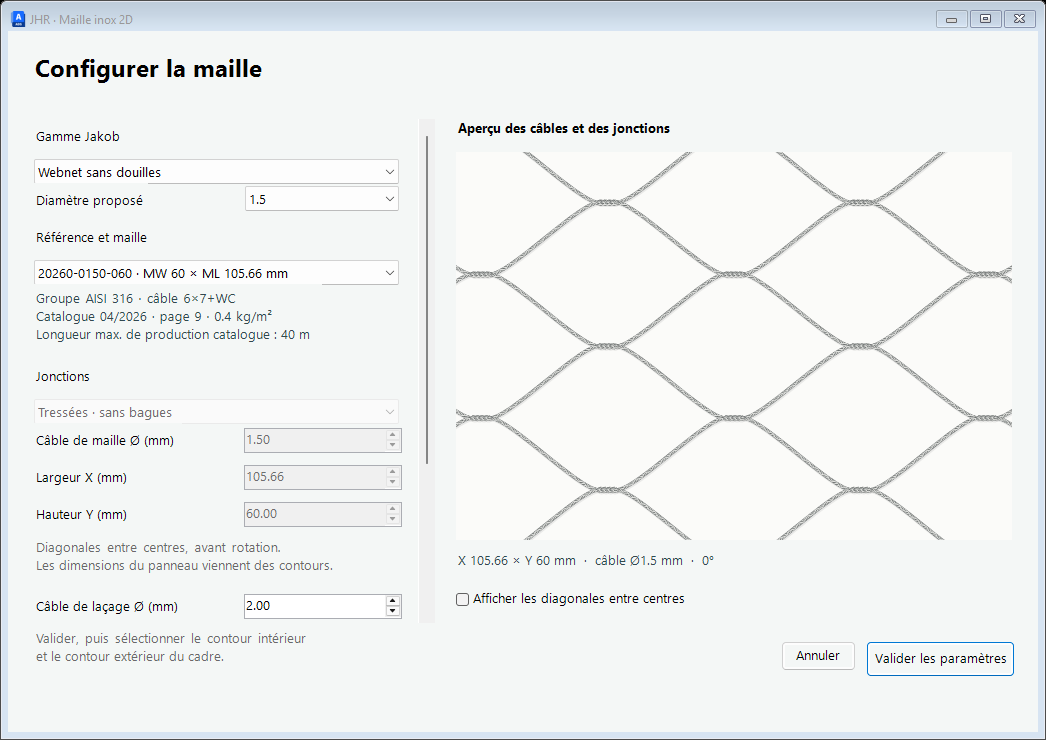
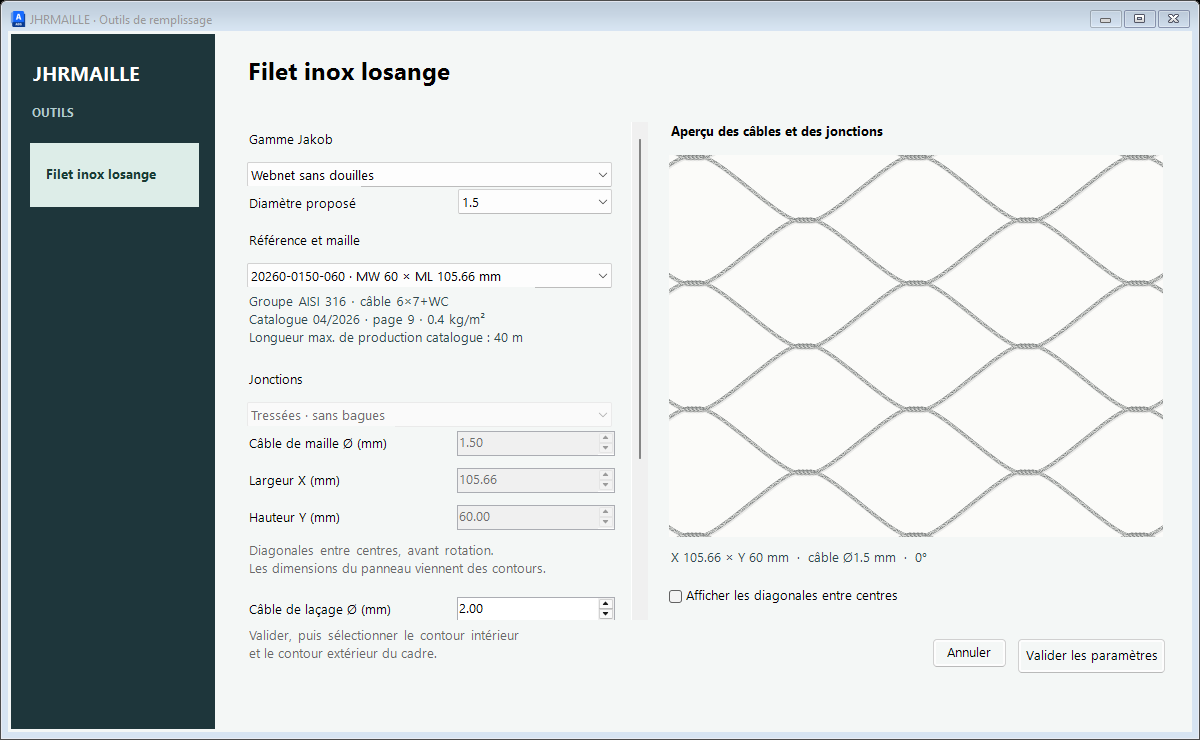
Ajoute navigation des outils JHRMAILLE et Filet inox losange

diff --git a/JHRMaille2D/Interface/MeshForm.cs b/JHRMaille2D/Interface/MeshForm.cs
@@ -3,6 +3,7 @@ public sealed class MeshForm : Form
 {
     public MeshSettings Settings {get;private set;}
     readonly MeshSettings initial;
+    readonly ToolNavigation navigation=new(){Dock=DockStyle.Fill};
     readonly MeshPreview preview=new(){Dock=DockStyle.Fill};
     readonly ComboBox mode=new(){DropDownStyle=ComboBoxStyle.DropDownList,Dock=DockStyle.Fill};
     readonly Dictionary<string,NumericUpDown> numbers=new();
@@ -19,14 +20,18 @@ public sealed class MeshForm : Form
     bool setting;
     public MeshForm(MeshSettings s)
     {
-        initial=s;Settings=s;Text="JHR · Maille inox 2D";Font=new Font("Segoe UI",10);
-        AutoScaleMode=AutoScaleMode.Dpi;ClientSize=new(1160,860);MinimumSize=new(1040,740);
+        initial=s;Settings=s;Text="JHRMAILLE · Outils de remplissage";Font=new Font("Segoe UI",10);
+        AutoScaleMode=AutoScaleMode.Dpi;ClientSize=new(1370,860);MinimumSize=new(1200,740);
         StartPosition=FormStartPosition.CenterParent;BackColor=Color.FromArgb(244,247,246);
         MinimizeBox=false;MaximizeBox=true;ShowInTaskbar=false;
+        var shell=new TableLayoutPanel{Dock=DockStyle.Fill,ColumnCount=2,RowCount=1,Margin=Padding.Empty};
+        shell.ColumnStyles.Add(new(SizeType.Absolute,210));shell.ColumnStyles.Add(new(SizeType.Percent,100));
+        shell.RowStyles.Add(new(SizeType.Percent,100));Controls.Add(shell);
+        navigation.AddTool("filet-inox-losange","Filet inox losange");shell.Controls.Add(navigation,0,0);
         var layout=new TableLayoutPanel{Dock=DockStyle.Fill,Padding=new(20),ColumnCount=2,RowCount=3};
         layout.ColumnStyles.Add(new(SizeType.Absolute,410));layout.ColumnStyles.Add(new(SizeType.Percent,100));
-        layout.RowStyles.Add(new(SizeType.Absolute,65));layout.RowStyles.Add(new(SizeType.Percent,100));layout.RowStyles.Add(new(SizeType.Absolute,86));Controls.Add(layout);
-        var title=new Label{Text="Configurer la maille",Font=new Font(Font.FontFamily,18,FontStyle.Bold),AutoSize=true};
+        layout.RowStyles.Add(new(SizeType.Absolute,65));layout.RowStyles.Add(new(SizeType.Percent,100));layout.RowStyles.Add(new(SizeType.Absolute,86));shell.Controls.Add(layout,1,0);
+        var title=new Label{Text="Filet inox losange",Font=new Font(Font.FontFamily,18,FontStyle.Bold),AutoSize=true};
         layout.Controls.Add(title,0,0);layout.SetColumnSpan(title,2);
         var fields=new TableLayoutPanel{Dock=DockStyle.Fill,ColumnCount=2,AutoScroll=true,Padding=new(0,0,16,0)};
         fields.ColumnStyles.Add(new(SizeType.Percent,57));fields.ColumnStyles.Add(new(SizeType.Percent,43));layout.Controls.Add(fields,0,1);

diff --git a/JHRMaille2D/Interface/ToolNavigation.cs b/JHRMaille2D/Interface/ToolNavigation.cs
@@ -1,0 +1,37 @@
+namespace JhrMailleUi;
+
+/// <summary>Navigation extensible de JHRMAILLE. Chaque outil conserve sa propre page.</summary>
+public sealed class ToolNavigation : UserControl
+{
+    readonly FlowLayoutPanel items=new(){Dock=DockStyle.Fill,FlowDirection=FlowDirection.TopDown,WrapContents=false,AutoScroll=true};
+    readonly Dictionary<string,Button> buttons=new();
+    public string? SelectedKey {get;private set;}
+    public event Action<string>? ToolSelected;
+    public ToolNavigation()
+    {
+        BackColor=Color.FromArgb(30,54,59);ForeColor=Color.White;Padding=new(16,24,16,20);
+        var layout=new TableLayoutPanel{Dock=DockStyle.Fill,ColumnCount=1,RowCount=3};
+        layout.RowStyles.Add(new(SizeType.Absolute,46));layout.RowStyles.Add(new(SizeType.Absolute,36));layout.RowStyles.Add(new(SizeType.Percent,100));
+        layout.Controls.Add(new Label{Text="JHRMAILLE",AutoSize=true,Font=new Font("Segoe UI",15,FontStyle.Bold),ForeColor=Color.White},0,0);
+        layout.Controls.Add(new Label{Text="OUTILS",AutoSize=true,ForeColor=Color.FromArgb(179,205,207),Font=new Font("Segoe UI",9,FontStyle.Bold)},0,1);
+        layout.Controls.Add(items,0,2);Controls.Add(layout);
+        items.SizeChanged+=(_,_)=>{foreach(var button in buttons.Values)button.Width=Math.Max(100,items.ClientSize.Width-4);};
+    }
+    public void AddTool(string key,string title)
+    {
+        if(buttons.ContainsKey(key))throw new ArgumentException("Cet outil existe déjà.",nameof(key));
+        var button=new Button{Text=title,Height=64,Width=170,FlatStyle=FlatStyle.Flat,TextAlign=ContentAlignment.MiddleLeft,
+            Padding=new(12,0,8,0),Margin=new(0,0,0,10),Font=new Font("Segoe UI",10,FontStyle.Bold),Cursor=Cursors.Hand,
+            UseVisualStyleBackColor=false,DialogResult=DialogResult.None,AccessibleName=title};
+        button.FlatAppearance.BorderSize=0;button.Click+=(_,_)=>SelectTool(key);
+        buttons.Add(key,button);items.Controls.Add(button);if(SelectedKey==null)SelectTool(key);
+    }
+    public void SelectTool(string key)
+    {
+        if(!buttons.ContainsKey(key))throw new ArgumentException("Outil inconnu.",nameof(key));
+        bool changed=SelectedKey!=key;SelectedKey=key;
+        foreach(var item in buttons){bool selected=item.Key==key;item.Value.BackColor=selected?Color.FromArgb(221,237,232):BackColor;
+            item.Value.ForeColor=selected?Color.FromArgb(24,60,52):Color.White;item.Value.FlatAppearance.MouseOverBackColor=selected?Color.FromArgb(208,228,219):Color.FromArgb(47,76,80);}
+        if(changed)ToolSelected?.Invoke(key);
+    }
+}

diff --git a/JHRMaille2D/Interface/Tests/Program.cs b/JHRMaille2D/Interface/Tests/Program.cs
@@ -54,6 +54,15 @@ static class Program
  {
   ApplicationConfiguration.Initialize();string output=args[0];Directory.CreateDirectory(output);
   var s=new MeshSettings();Check(s.Validate()==null,"Valeurs existantes acceptées");
+  using(var f=new MeshForm(s)){
+   var nav=Field<ToolNavigation>(f,"navigation");
+   Check(nav.SelectedKey=="filet-inox-losange","L’outil Filet inox losange est sélectionné à l’ouverture");
+   var buttons=Field<Dictionary<string,Button>>(nav,"buttons");
+   Check(buttons.Count==1&&buttons.Values.Single().Text=="Filet inox losange","Une colonne d’outils avec le nom demandé");
+   using var timer=new System.Windows.Forms.Timer{Interval=100};
+   timer.Tick+=(_,_)=>{timer.Stop();buttons.Values.Single().PerformClick();Check(f.Visible&&Field<MeshPreview>(f,"preview").Settings==s,"Cliquer sur l’outil conserve la fenêtre et les réglages");f.CancelButton!.PerformClick();};timer.Start();
+   Check(f.ShowDialog()==DialogResult.Cancel&&f.Settings==s,"La navigation conserve l’annulation");
+  }
   CatalogueTests(s,output);
   Check((s with{Wire=20}).Validate()!=null,"Câble trop gros refusé");Check((s with{Width=2,Woven=true}).Validate()!=null,"Jonction tressée trop grande refusée");
   Check((s with{Width=double.NaN}).Validate()!=null,"Valeur non finie refusée");

diff --git a/JHRMaille2D/Interface/Plugin.cs b/JHRMaille2D/Interface/Plugin.cs
@@ -5,7 +5,7 @@ using AcApp=Autodesk.AutoCAD.ApplicationServices.Application;
 namespace JhrMailleUi;
 public static class Plugin
 {
-    [LispFunction("jhr:maille-dialog-v110")]
+    [LispFunction("jhr:maille-dialog-v120")]
     public static ResultBuffer Dialog(ResultBuffer args)
     {
         try
@@ -29,6 +29,6 @@ public static class Plugin
             return new ResultBuffer(new TypedValue((int)LispDataType.Nil));
         }
     }
-    [LispFunction("jhr:maille-ui-version-v110")]
-    public static string Version(ResultBuffer args)=>"1.1.0";
+    [LispFunction("jhr:maille-ui-version-v120")]
+    public static string Version(ResultBuffer args)=>"1.2.0";
 }

diff --git a/JHRMaille2D/README.md b/JHRMaille2D/README.md
@@ -1,4 +1,4 @@
-# JHRMAILLE 1.1 — maille inox détaillée en 2D
+# JHRMAILLE 1.2 — maille inox détaillée en 2D
 
 Commande AutoLISP pour créer un remplissage de câbles en losanges et son laçage autour d’un cadre. L’interface propose un aperçu des torons, les jonctions avec bagues ou tressées sans douilles et les références losangées du catalogue Jakob Webnet.
 
@@ -6,14 +6,18 @@ Commande AutoLISP pour créer un remplissage de câbles en losanges et son laça
 
 ## Installation
 
-Télécharger le dossier complet **JHRMaille2D** du dépôt, ou l’archive du dépôt : le LISP seul ne contient pas l’interface. Les deux fichiers nécessaires sont `JHR_Maille_2D.lsp` et `JhrMailleUi_v1_1.dll`.
+Télécharger le dossier complet **JHRMaille2D** du dépôt, ou l’archive du dépôt : le LISP seul ne contient pas l’interface. Les deux fichiers nécessaires sont `JHR_Maille_2D.lsp` et `JhrMailleUi_v1_2.dll`.
 
 1. Dans AutoCAD pour Windows, charger `JHR_Maille_2D.lsp` avec **APPLOAD**.
-2. Charger `JhrMailleUi_v1_1.dll` avec **NETLOAD**. Cette étape n’est pas nécessaire si le dossier est déjà dans les chemins de recherche et que le LISP trouve la DLL automatiquement.
+2. Charger `JhrMailleUi_v1_2.dll` avec **NETLOAD**. Cette étape n’est pas nécessaire si le dossier est déjà dans les chemins de recherche et que le LISP trouve la DLL automatiquement.
 3. Respecter les règles de sécurité de l’installation. L’outil ne modifie pas SECURELOAD ou TRUSTEDPATHS.
 4. Lancer **JHRMAILLEPARAM** pour vérifier que la fenêtre s’ouvre, puis **JHRMAILLE** pour créer un panneau.
 
 La DLL est compilée et testée pour **AutoCAD / Advance Steel 2027, Windows 64 bits, .NET 10**. Sur une autre version, utiliser **JHRMAILLECLI** et **JHRMAILLEPARAMCLI**, ou recompiler l’interface avec le SDK correspondant. La compatibilité ARES, Mac et autres moteurs LISP n’est pas validée.
+
+## Navigation entre les outils
+
+La colonne à gauche regroupe les outils de **JHRMAILLE**. Le premier outil s’appelle **Filet inox losange** et est sélectionné à l’ouverture. Ses paramètres restent au centre et son aperçu à droite. Cliquer sur l’outil sélectionné conserve les valeurs et laisse la fenêtre ouverte. La colonne est prévue pour accueillir les futurs outils ; cette version ne propose que Filet inox losange.
 
 ## Dessiner un panneau
 

diff --git a/JHRMaille2D/Interface/Tests/VALIDATION_20261010.md b/JHRMaille2D/Interface/Tests/VALIDATION_20261010.md
@@ -13,3 +13,7 @@
 - Tous les dessins ouverts rechargent le LISP sans variation de leurs nombres d’objets ni de leurs états de sauvegarde. Les essais de création concernent uniquement le nouveau DWG.
 
 Les tests autonomes sont dans Program.cs. La comparaison des fonctions est effectuée sur les expressions LISP complètes, commentaires et blancs normalisés. Les pilotes natifs de la machine d’essai restent locaux ; ils ne sont pas exécutés à l’installation de la commande.
+
+## Interface 1.2 — colonne d’outils
+
+Ajout de la navigation à gauche et du nom Filet inox losange. Compilation sans erreur ni avertissement. Les contrôles des 202 références et des fermetures passent ; cliquer sur l’outil conserve les valeurs et la fenêtre. Contrôle visuel de la fenêtre autonome et de la vraie fenêtre AutoCAD. Valider, Annuler, croix et Échap passent dans AutoCAD. Aucun calcul de géométrie modifié ; seuls le nom de la DLL et les fonctions de chargement changent dans le LISP. Les nombres d’objets et états de sauvegarde des autres dessins restent identiques ; seul le DWG de test est enregistré après le chargement du nouveau complément.
